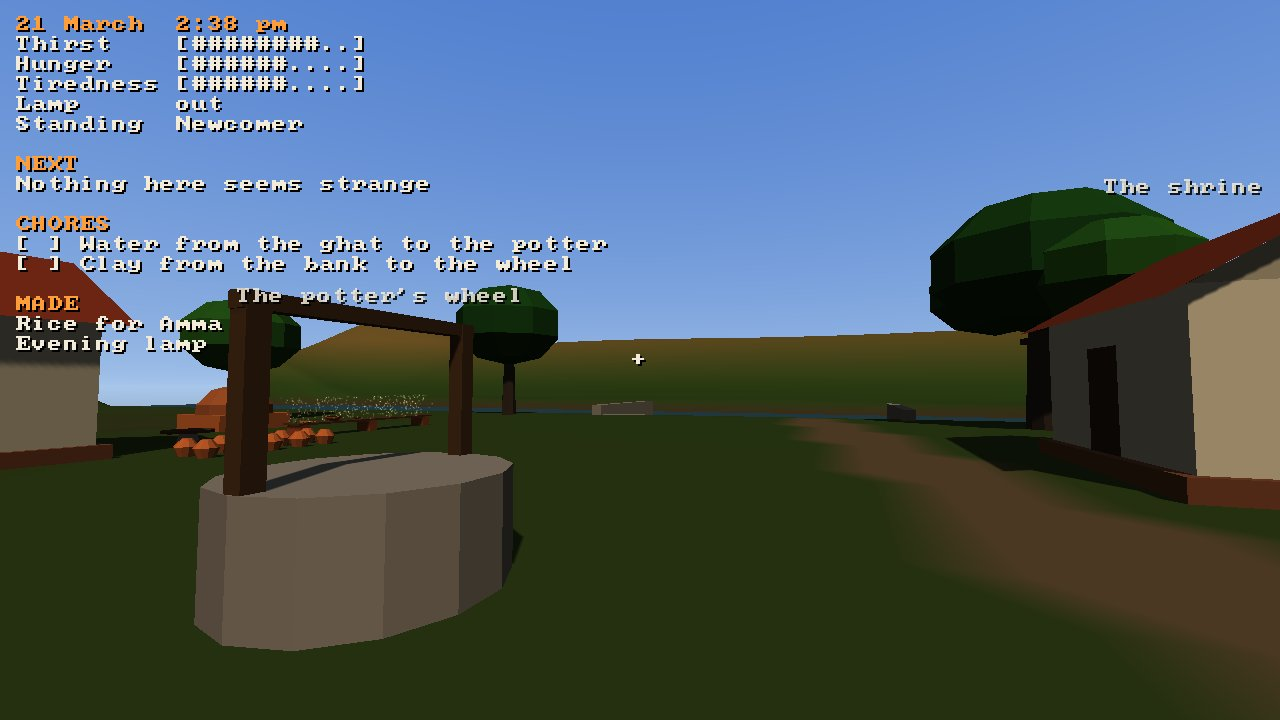
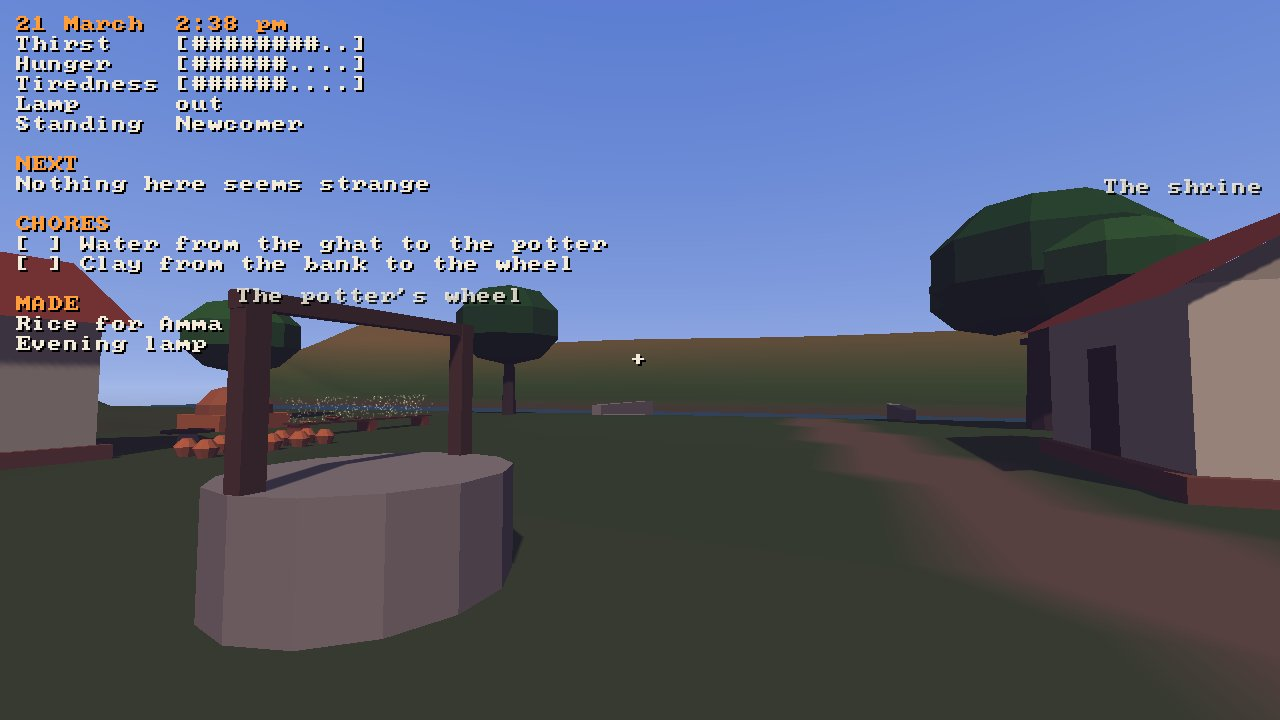
ux: mark the dream as a dream, and more help at the snakes and the door
The second driven AI playtest (two agents, on dae6fe4) reached the dream
for the first time, and both took it for a fault: the clock "ran backwards
at about six game minutes a second", "I seriously thought the game had
frozen or the clock had a bug". One gave up inside it. Nothing said the
player had fallen asleep, and NEXT's "Nothing here seems strange" only read
as a joke once the codex explained the dream afterwards (Visibility of
system status; Match between the system and the real world).

The dream now begins with "You sleep, and dream." and is seen through a
faint violet haze; inside it nothing else says so, as before. At the
snakes, NEXT keeps the count once one is seen ("... (1 of 3 seen)") and
says "Go closer with the lamp" while the nearest snake is beyond the lamp's
reach, where a steady look does nothing. The bearing under NEXT now stays
until a metre and a half from the place, so it no longer vanishes before
your door is close enough to sleep at. And V steps out to just behind the
body, so the view changes at once instead of only the HUD's label.

Claude-Session: https://claude.ai/code/session_01ShB2ag2emWKAWeDJ9dxeoy

diff --git a/src/sim/chores.cpp b/src/sim/chores.cpp
@@ -1,5 +1,7 @@
 #include "sim/chores.h"
 
+#include <algorithm>
+
 #include "sim/clay.h"
 #include "sim/valley.h"
 
@@ -146,11 +148,18 @@ std::string nextStep(const World& w) {
         int seen = 0;
         for (const Coil& c : w.coils) seen += c.seenThrough ? 1 : 0;
         if (!isDusk(w)) return seen ? "A snake is still on the path; it comes back at dusk" : "Wait on the ghat steps for the sunset";
+        const std::string count =
+            seen ? " (" + std::to_string(seen) + " of " + std::to_string(V::kCoilCount) + " seen)" : std::string();
         // Near a snake (fear rising), say what to do about it.
-        if (w.fear > 0.2f) return w.lampLit ? "Hold the lamp to it and look at it steadily" : "Light your lamp (F) and look at it";
-        if (seen)
-            return "Find the other snakes on the path (" + std::to_string(seen) + " of " + std::to_string(V::kCoilCount) +
-                   " seen)";
+        if (w.fear > 0.2f) {
+            if (!w.lampLit) return "Light your lamp (F) and look at it" + count;
+            float nearest = 1e9f;
+            for (int i = 0; i < V::kCoilCount; ++i)
+                if (!w.coils[i].seenThrough) nearest = std::min(nearest, distance(w.player, V::kCoils[i]));
+            if (nearest > kLampReach) return "Go closer with the lamp, then look at it steadily" + count;
+            return "Hold the lamp to it and look at it steadily" + count;
+        }
+        if (seen) return "Find the other snakes on the path" + count;
         return "Walk back to the village along the path";
     }
     return isDusk(w) ? "Go home and sleep (E at your door)" : "Live the day; sleep at home after dark";
@@ -189,7 +198,7 @@ bool nextPlace(const World& w, Vec2& at) {
 
 std::string bearingText(const World& w, Vec2 at) {
     const float d = distance(w.player, at);
-    if (d < 3.0f) return "";
+    if (d < 1.5f) return "";
     // The angle from where the player looks to the place, + to the right.
     float a = detAtan2(at.x - w.player.x, -(at.z - w.player.z)) - w.player.yaw;
     while (a > kPi) a -= 2 * kPi;

diff --git a/src/play/session.cpp b/src/play/session.cpp
@@ -87,6 +87,7 @@ void Session::adopt(const World& w) {
     pagesSeen_ = pagesOpen(w_);  // a loaded game's pages and after-mode are not news
     fourthSeen_ = w_.codex[static_cast<int>(CodexId::Fourth)];
     daySeen_ = w_.day;
+    sleepSeen_ = w_.sleep;
     codexRead_ = w_.codex;  // a loaded game's pages are not new
     if (pages_.isOpen()) pages_.close();
 }
@@ -109,6 +110,10 @@ void Session::noticeChanges() {
             "Live the day as it comes, or step back and watch it lived (V).",
             kAfterSeconds);
     fourthSeen_ = fourth;
+    // The dream is named as it begins, once: nothing in it says so, and
+    // without a word it reads as a broken clock (the AI playtests of 0.2.0).
+    if (w_.sleep == Sleep::Dream && sleepSeen_ != Sleep::Dream) say("You sleep, and dream.", 6);
+    sleepSeen_ = w_.sleep;
     // A lamp night is told of in its morning, so the player can be at the ghat for it.
     if (w_.day != daySeen_ && dayKind(w_) == DayKind::LampNight && !watching_)
         say("This evening the village sets lamps on the ghat steps, and floats more on the river.", 10);
@@ -305,8 +310,8 @@ void Session::onKeyDown(int scancode, bool repeat) {
         say("Stepping out of the body to watch comes later, once the teachings are done.");
     else if (scancode == kV) {
         watching_ = !watching_;
-        following_ = false;
-        if (watching_) cam_ = cameraAtEyes(w_);
+        following_ = watching_;  // step out to just behind the body, so it is seen at once
+        if (watching_) cam_ = cameraBehind(w_);
         else {
             yaw_ = w_.player.yaw;  // step back in, looking where the body looks
             pitch_ = w_.player.pitch;

diff --git a/src/play/view.cpp b/src/play/view.cpp
@@ -64,15 +64,21 @@ float darkness(const World& w) {
     return dark;
 }
 
-// One black point big enough to cover the screen, just in front of the eye.
+constexpr bridge::Rgb kBlack{0, 0, 0}, kDreamHaze{0.55f, 0.45f, 0.85f};
+
+// One point big enough to cover the screen, just in front of the eye: black,
+// or a colour.
 void drawDarkness(strata::Engine& engine, Vec3 eye, float yaw, float pitch, float alpha, int32_t width,
-                  int32_t height) {
+                  int32_t height, bridge::Rgb colour = kBlack) {
     const Vec3 d = lookDirection(yaw, pitch);
     StrataPoint p{};
     p.position[0] = eye.x + d.x * 0.2f;
     p.position[1] = eye.y + d.y * 0.2f;
     p.position[2] = eye.z + d.z * 0.2f;
     p.size_pixels = 3.0f * static_cast<float>(width > height ? width : height);
+    p.color[0] = colour.r;
+    p.color[1] = colour.g;
+    p.color[2] = colour.b;
     p.color[3] = alpha;
     engine.submitPoints(&p, 1);
 }
@@ -487,6 +493,8 @@ void render(strata::Engine& engine, const World& w, bool help, const std::string
     }
     const float dark = darkness(w);
     if (dark > 0) drawDarkness(engine, view.eye, view.yaw, view.pitch, dark, width, height);
+    // The dream is seen through a faint violet haze.
+    if (w.sleep == Sleep::Dream) drawDarkness(engine, view.eye, view.yaw, view.pitch, 0.16f, width, height, kDreamHaze);
 
     std::vector<StrataText> texts;
     std::vector<std::string> keep;

diff --git a/tests/test_chores.cpp b/tests/test_chores.cpp
@@ -182,6 +182,10 @@ int main() {
         w.fear = 0.5f;
         CHECK(nextStep(w) == "Light your lamp (F) and look at it");
         w.lampLit = true;
+        w.player.x = V::kCoils[0].x - 6;  // west of the first snake, out of the lamp's reach
+        w.player.z = V::kCoils[0].z;
+        CHECK(nextStep(w) == "Go closer with the lamp, then look at it steadily");
+        w.player.x = V::kCoils[0].x - 2;
         CHECK(nextStep(w) == "Hold the lamp to it and look at it steadily");
         w.fear = 0;
         w.coils[0].seenThrough = true;
@@ -215,7 +219,7 @@ int main() {
         CHECK(bearingText(w, at) == "20 m to your left");
         w.player.yaw = kPi;
         CHECK(bearingText(w, at) == "20 m behind you");
-        w.player.z = V::kWheel.z + 2;
+        w.player.z = V::kWheel.z + 1;
         CHECK(bearingText(w, at).empty());  // there already
         w.potsMade = kPotsForLens;
         CHECK(!nextPlace(w, at));  // the lens works anywhere

diff --git a/src/sim/chores.h b/src/sim/chores.h
@@ -48,7 +48,7 @@ std::string nextStep(const World& w);
 // no one place (the clay lens, a dream, the after-mode).
 bool nextPlace(const World& w, Vec2& at);
 // Which way that place is, in words, from where the player stands and looks:
-// "30 m ahead, to the right". Empty when it is within a few metres.
+// "30 m ahead, to the right". Empty within a metre and a half.
 std::string bearingText(const World& w, Vec2 at);
 
 // Where to stand to sleep: just outside your door.

diff --git a/src/sim/world.h b/src/sim/world.h
@@ -145,6 +145,9 @@ float sleptSeconds(const World& w);
 // True from dusk until dawn, when the light is dim enough to mistake a rope
 // (by the sky's minute, so never in the dream).
 bool isDusk(const World& w);
+// How far the lamp reaches for looking at a snake closely, in metres.
+constexpr float kLampReach = 3.5f;
+
 // True while coil i is seen as a snake.
 bool snakeVisible(const World& w, int i);
 // True while the fear meter is on the HUD.

diff --git a/src/play/session.h b/src/play/session.h
@@ -130,6 +130,7 @@ private:
     int pagesSeen_ = 0;     // codex pages the player has been told of
     bool fourthSeen_ = false;  // whether waking from the deep sleep has been announced
     int32_t daySeen_ = 0;      // the day whose morning has been announced
+    Sleep sleepSeen_ = Sleep::Awake;
     std::string message_;
     double messageUntil_ = 0;
     int village_ = 1;

diff --git a/src/sim/world.cpp b/src/sim/world.cpp
@@ -26,7 +26,6 @@ constexpr float kTirednessPerMinute = 1.0f / (14 * 60);
 // its light for kGazeSeconds is enough to see what it is.
 constexpr float kFearRadius = 9.0f;
 constexpr float kBalkRadius = 1.4f;
-constexpr float kLampReach = 3.5f;
 constexpr float kGazeSeconds = 2.0f;
 constexpr float kFearRisePerSecond = 0.6f;
 constexpr float kFearFallPerSecond = 0.25f;

diff --git a/README.md b/README.md
@@ -99,7 +99,7 @@ codex is open.
 
 | The dream, at a quarter to six | Later in the dream: the sun back in the afternoon |
 |---|---|
-| ![The dream: the village at dusk light from your door; the HUD's NEXT reads "Nothing here seems strange" and the well is labelled "The potter's wheel"](docs/images/m6-dream.jpg) | ![Further on in the dream, by the well in bright afternoon sun at 2:38 pm by the HUD's clock; the well is still labelled "The potter's wheel" and a house "The shrine"](docs/images/m6-dream-sun.jpg) |
+| ![The dream, through a faint violet haze: the village in dusk light from your door; the HUD's NEXT reads "Nothing here seems strange" and the well is labelled "The potter's wheel"](docs/images/m6-dream.jpg) | ![Further on in the dream, by the well in bright afternoon sun at 2:38 pm by the HUD's clock; the well is still labelled "The potter's wheel" and a house "The shrine"](docs/images/m6-dream-sun.jpg) |
 
 | The codex: the dream | The codex: the fourth |
 |---|---|
